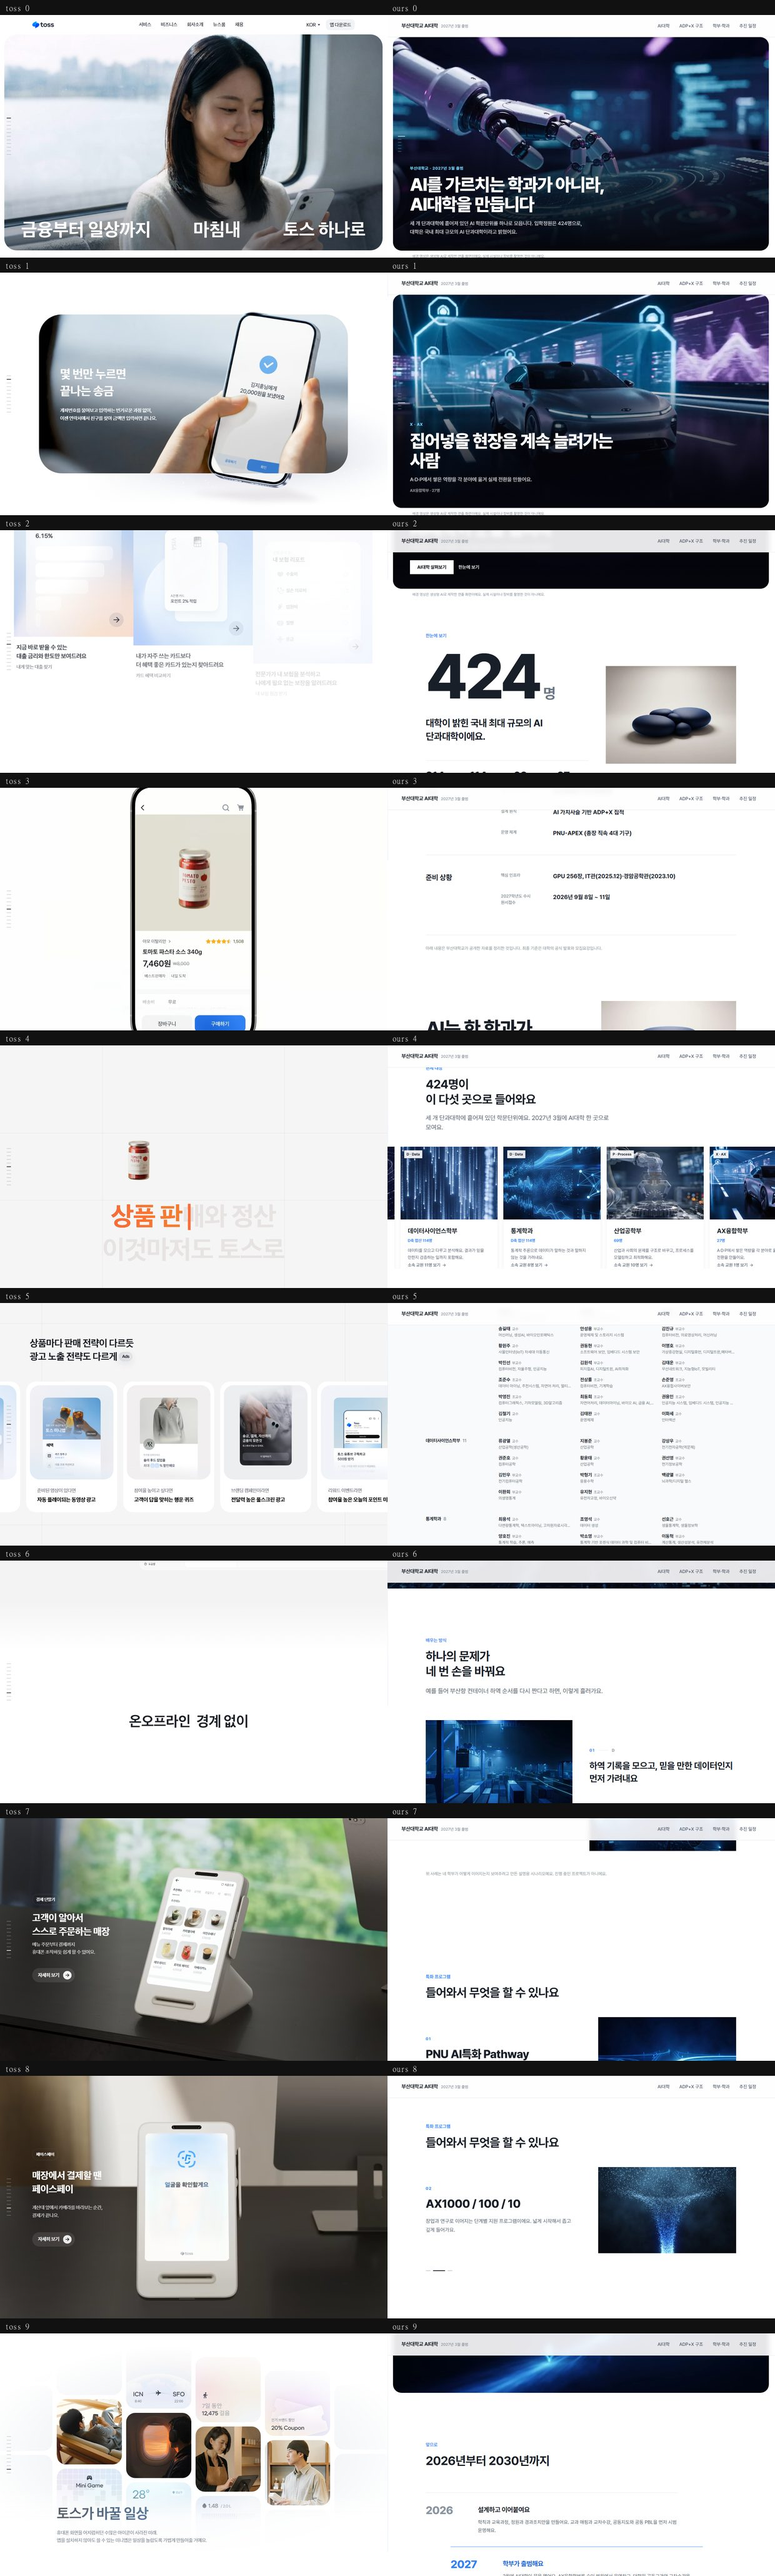
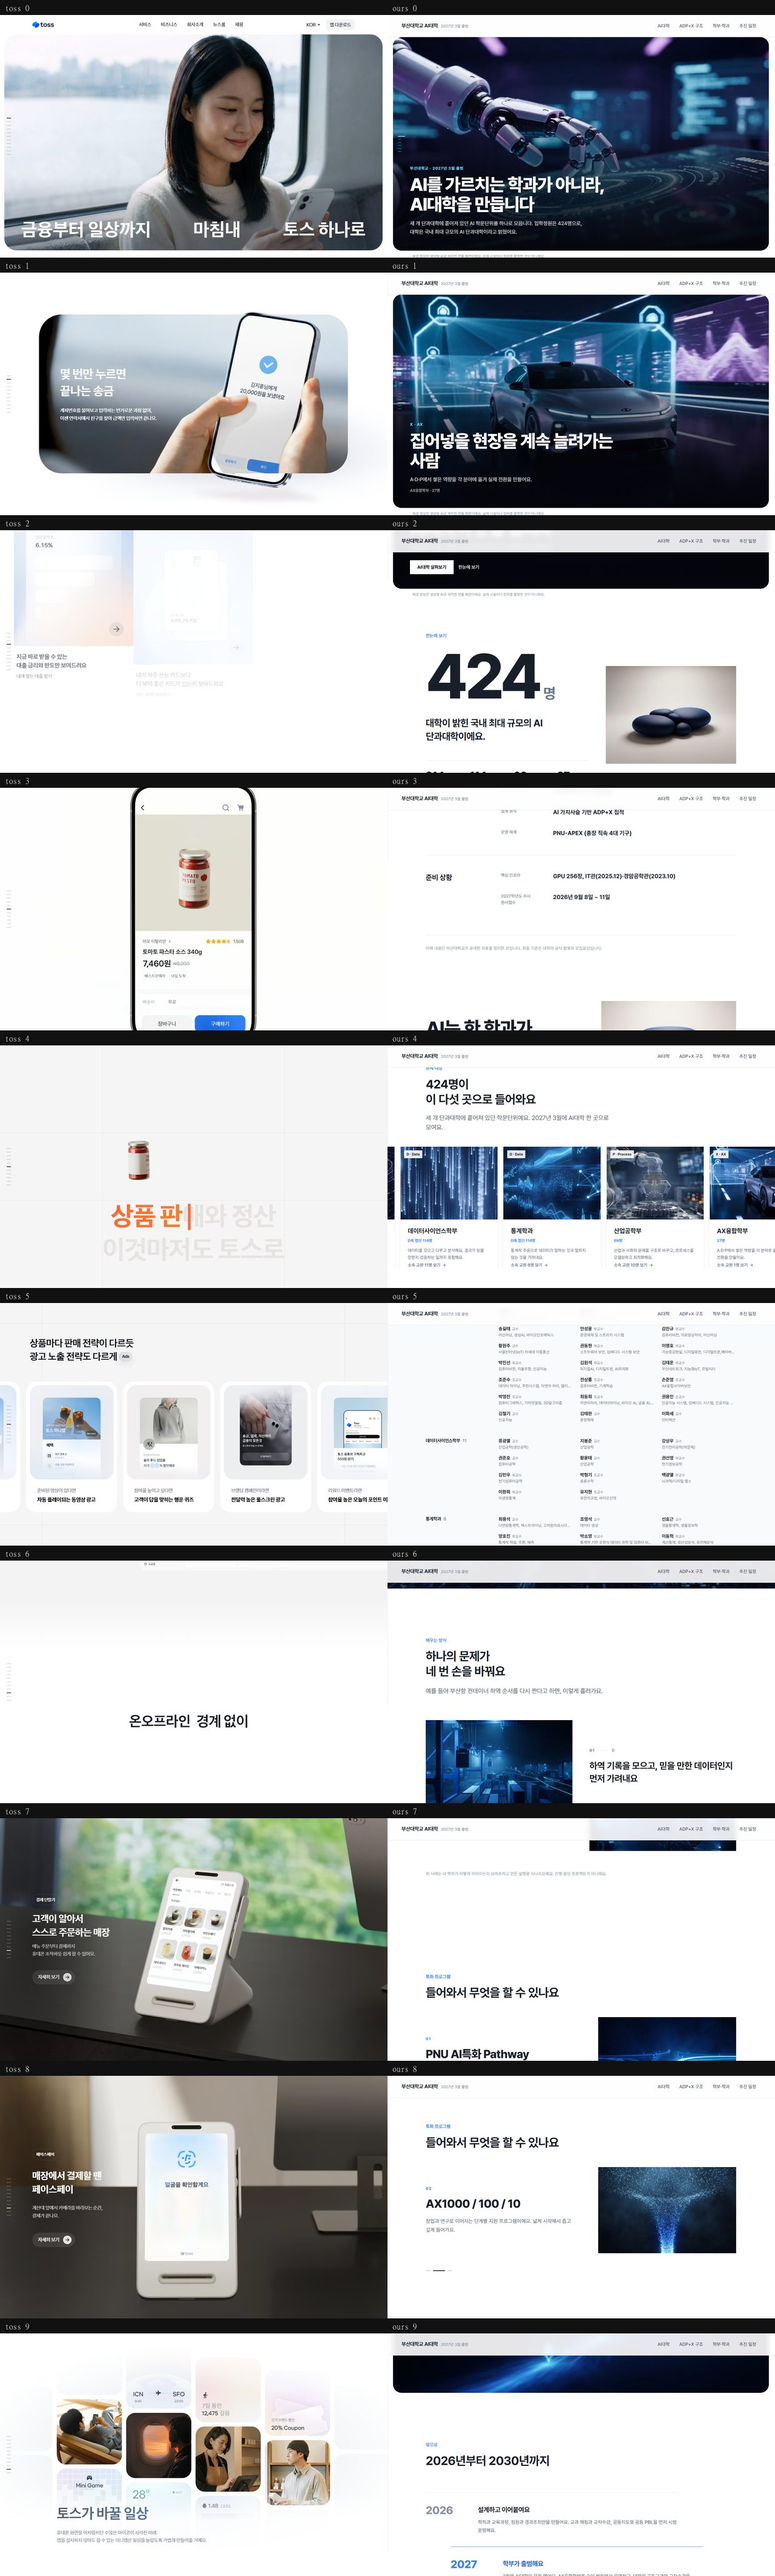
공유 카드를 페이지마다 다르게 만든다
26회차에 공유 카드를 붙이면서 "SPA 라 서브페이지도 같은 카드를 쓴다, 정적
생성 없이는 못 고친다" 고 적어뒀다. 27회차에 라우트마다 HTML 을 미리 찍기
시작했으니 이제 고칠 수 있다.

PageHead 가 제목만 맡고 있던 것을 공유 태그까지 맡게 했다. 미리 찍을 때
그 상태가 그대로 파일에 굳고, 실행 중 라우팅에서도 같이 바뀐다 — 페이지를
옮겨 다니다 주소창을 복사하는 경우다. 떠날 때 원래 값으로 되돌린다.

  og:title / twitter:title      「추진 일정 — 부산대학교 AI대학」
  og:description / description   그 페이지의 lead 문장
  og:url                        그 페이지 주소
  link rel=canonical            같은 내용이 여러 주소로 잡히지 않게

canonical 은 index.html 에 아예 없었다. 자리를 만들고 PageHead 가 갈아 끼운다.

확인. dist 를 Pages 규칙대로 띄워(scripts/serve-dist.mjs) 미리 찍힌 파일에
페이지별 태그가 들어갔는지, 그리고 브라우저에서 링크를 눌러 이동해도 따라오는지
둘 다 봤다. 낭독기 뼈대와 키보드 훑기도 그대로다.

Claude-Session: https://claude.ai/code/session_01DneFDYxx25DjwNJdj8uLH7

diff --git a/src/components/PageHead.jsx b/src/components/PageHead.jsx
@@ -6,14 +6,47 @@ import { Link } from 'react-router-dom'
  * Also owns the document title, so each route is distinguishable in history
  * and when a tab is shared.
  */
-export default function PageHead({ eyebrow, title, lead, crumbs = [], docTitle }) {
+/*
+ * 공유 카드는 index.html 에 한 벌만 있어서 어느 경로를 붙여도 홈 카드가 떴다.
+ * 27회차에 라우트마다 HTML 을 미리 찍기 시작했으니, 여기서 태그를 갈아 끼우면
+ * 그 상태가 그대로 파일에 굳는다.
+ *
+ * 실행 중에도 같이 바뀐다 — 라우트를 옮겨 다니다 주소를 복사하는 경우다.
+ * 떠날 때 원래 값으로 되돌린다.
+ */
+const SITE = 'https://shain1912.github.io/pnu-ai-college'
+
+const setAttr = (selector, attr, value) => {
+  const el = document.head.querySelector(selector)
+  if (!el) return null
+  const previous = el.getAttribute(attr)
+  el.setAttribute(attr, value)
+  return () => el.setAttribute(attr, previous)
+}
+const setMeta = (selector, value) => setAttr(selector, 'content', value)
+
+export default function PageHead({ eyebrow, title, lead, crumbs = [], docTitle, path }) {
   useEffect(() => {
+    const full = `${docTitle ?? title} — 부산대학교 AI대학`
     const previous = document.title
-    document.title = `${docTitle ?? title} — 부산대학교 AI대학`
+    document.title = full
+
+    const undo = [
+      setMeta('meta[property="og:title"]', full),
+      setMeta('meta[name="twitter:title"]', full),
+      lead && setMeta('meta[property="og:description"]', lead),
+      lead && setMeta('meta[name="twitter:description"]', lead),
+      lead && setMeta('meta[name="description"]', lead),
+      path && setMeta('meta[property="og:url"]', `${SITE}${path}`),
+      // 같은 내용이 여러 주소로 잡히지 않게 정규 주소도 같이 옮긴다
+      path && setAttr('link[rel="canonical"]', 'href', `${SITE}${path}`),
+    ].filter(Boolean)
+
     return () => {
       document.title = previous
+      undo.forEach((fn) => fn())
     }
-  }, [docTitle, title])
+  }, [docTitle, title, lead, path])
 
   return (
     <div className="border-b border-line bg-canvas-subtle">

diff --git a/index.html b/index.html
@@ -27,6 +27,8 @@
       og:image 는 상대 경로를 못 읽는 수집기가 많아 절대 주소로 적는다.
       도메인이 arise-ai.pusan.ac.kr 로 옮겨가면 아래 두 줄도 같이 바꿔야 한다.
     -->
+    <link rel="canonical" href="https://shain1912.github.io/pnu-ai-college/" />
+
     <meta property="og:type" content="website" />
     <meta property="og:site_name" content="부산대학교 AI대학" />
     <meta property="og:locale" content="ko_KR" />

diff --git a/src/pages/AiCollege.jsx b/src/pages/AiCollege.jsx
@@ -13,6 +13,7 @@ export default function AiCollege() {
       <PageHead
         eyebrow="2027년 3월 출범"
         title={'AI대학'}
+        path="/ai-college/"
         lead="세 개 단과대학에 흩어져 있던 AI 학문단위를 하나로 모읍니다. 입학정원 424명, 국내에서 가장 큰 AI 단과대학이에요."
         crumbs={[{ to: '/', label: '홈' }]}
       />

diff --git a/src/pages/SchoolsIndex.jsx b/src/pages/SchoolsIndex.jsx
@@ -9,6 +9,7 @@ export default function SchoolsIndex() {
       <PageHead
         eyebrow="편제 대상"
         title={'학부 · 학과'}
+        path="/ai-college/schools/"
         lead="2027년 3월 AI대학으로 모이는 학문단위예요. 각 학과의 기본 정보와 소속 교원을 정리했어요."
         crumbs={[
           { to: '/', label: '홈' },

diff --git a/src/pages/AdpxPage.jsx b/src/pages/AdpxPage.jsx
@@ -19,6 +19,7 @@ export default function AdpxPage() {
       <PageHead
         eyebrow="학사 구조"
         title={'ADP+X'}
+        path="/ai-college/adpx/"
         lead="AI가 세상에 닿기까지 필요한 네 가지 역할을, 그대로 학사조직으로 만들었어요."
         crumbs={[
           { to: '/', label: '홈' },

diff --git a/src/pages/RoadmapPage.jsx b/src/pages/RoadmapPage.jsx
@@ -9,6 +9,7 @@ export default function RoadmapPage() {
       <PageHead
         eyebrow={ROADMAP.eyebrow}
         title={'추진 일정'}
+        path="/ai-college/roadmap/"
         lead="설계에서 출범, 그리고 성과 기반 재편까지 4년의 계획이에요."
         crumbs={[
           { to: '/', label: '홈' },

diff --git a/src/pages/SchoolDetail.jsx b/src/pages/SchoolDetail.jsx
@@ -22,6 +22,7 @@ export default function SchoolDetail() {
       <PageHead
         eyebrow={`${school.axis} · ${school.axisName}`}
         title={school.name}
+        path={`/ai-college/schools/${school.slug}/`}
         lead={school.role}
         crumbs={[
           { to: '/', label: '홈' },
